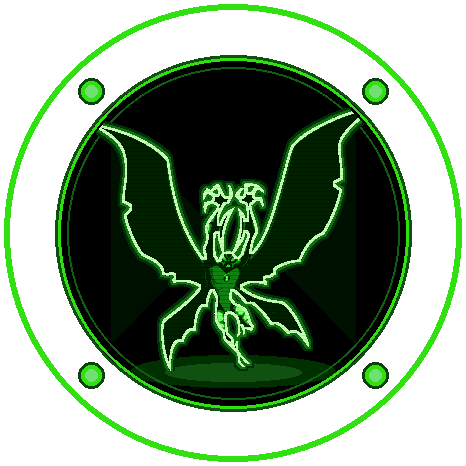
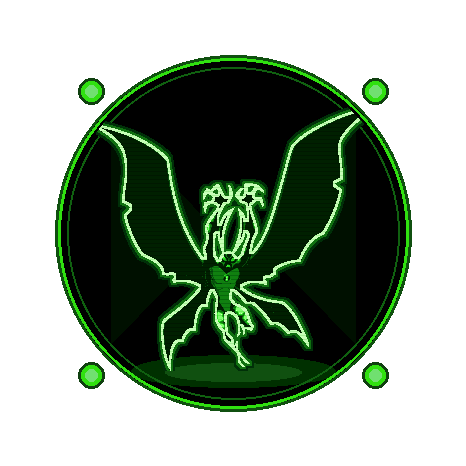
Unify <50% auto-red Omnitrix and battery ring into single 01 12 opcode and drop 7th tap

diff --git a/studio/index.html b/studio/index.html
@@ -2923,34 +2923,32 @@
       } else if (t === "alien_force_holograms") {
         document.getElementById("presetName").value = "Alien Force Holograms";
         loadConfigIntoUI({
-          layer_order: ["background", "gauge:g_low_red", "tap_switch", "gauge:g_batt_ring", "hands"],
+          layer_order: ["background", "gauge:g_low_red", "tap_switch", "hands"],
           background: {
             mode: "image",
-            image_path: "builtin://alien_force_holograms/bg_omnitrix_green.png",
+            image_path: "builtin://alien_force_holograms/bg_bezel.png",
             color: "#000000", color2: "#000000", brightness: 100, vignette: 0
           },
           tap_switch: {
             enabled: true, mode: "custom_images", size: 466, circular: true, opacity: 100, brightness: 100,
             x: 233, y: 233, preview_index: 0,
             frames: [
-              { label: "Omnitrix (<50% Auto-Red)", image_path: "builtin://alien_force_holograms/ts_00_clear.png",       thumb_url: "/builtin-assets/alien_force_holograms/bg_omnitrix_green.png" },
-              { label: "Swampfire",                image_path: "builtin://alien_force_holograms/ts_01_swampfire.png",   thumb_url: "/builtin-assets/alien_force_holograms/ts_01_swampfire.png" },
-              { label: "Humungousaur",             image_path: "builtin://alien_force_holograms/ts_02_humungousaur.png",thumb_url: "/builtin-assets/alien_force_holograms/ts_02_humungousaur.png" },
-              { label: "Big Chill",                image_path: "builtin://alien_force_holograms/ts_03_bigchill.png",    thumb_url: "/builtin-assets/alien_force_holograms/ts_03_bigchill.png" },
-              { label: "Jetray",                   image_path: "builtin://alien_force_holograms/ts_04_jetray.png",      thumb_url: "/builtin-assets/alien_force_holograms/ts_04_jetray.png" },
-              { label: "Echo Echo",                image_path: "builtin://alien_force_holograms/ts_05_echoecho.png",    thumb_url: "/builtin-assets/alien_force_holograms/ts_05_echoecho.png" },
-              { label: "Timeout Red",              image_path: "builtin://alien_force_holograms/ts_06_timeout_red.png", thumb_url: "/builtin-assets/alien_force_holograms/ts_06_timeout_red.png" }
+              { label: "Omnitrix (<50% Auto-Red)", image_path: "builtin://alien_force_holograms/ts_00_clear.png",        thumb_url: "/builtin-assets/alien_force_holograms/omnitrix_green_core.png" },
+              { label: "Swampfire",                image_path: "builtin://alien_force_holograms/ts_01_swampfire.png",    thumb_url: "/builtin-assets/alien_force_holograms/ts_01_swampfire.png" },
+              { label: "Humungousaur",             image_path: "builtin://alien_force_holograms/ts_02_humungousaur.png", thumb_url: "/builtin-assets/alien_force_holograms/ts_02_humungousaur.png" },
+              { label: "Big Chill",                image_path: "builtin://alien_force_holograms/ts_03_bigchill.png",     thumb_url: "/builtin-assets/alien_force_holograms/ts_03_bigchill.png" },
+              { label: "Jetray",                   image_path: "builtin://alien_force_holograms/ts_04_jetray.png",       thumb_url: "/builtin-assets/alien_force_holograms/ts_04_jetray.png" },
+              { label: "Echo Echo",                image_path: "builtin://alien_force_holograms/ts_05_echoecho.png",     thumb_url: "/builtin-assets/alien_force_holograms/ts_05_echoecho.png" }
             ]
           },
           gauges: [
             {
               id: "g_low_red", enabled: true, kind: "progress", metric: "battery", style: "omnitrix_low_red",
-              omni_style: "alien_force", color: "#ff1818", threshold_pct: 50, omni_glow: 1.0, omni_ticks: true,
-              brightness: 100, image_path: "builtin://alien_force_holograms/ts_06_timeout_red.png"
-            },
-            {
-              id: "g_batt_ring", enabled: true, kind: "progress", metric: "battery", style: "ring_mask",
-              color: "#161a1e", thickness: 8, radius_inset: 3
+              omni_style: "alien_force", color: "#ff1818", green_color: "#39ff14", track_color: "#161a1e",
+              threshold_pct: 50, include_ring: true, thickness: 6, radius_inset: 4,
+              omni_glow: 1.0, omni_ticks: true, brightness: 100,
+              image_path: "builtin://alien_force_holograms/omnitrix_red_core.png",
+              green_image_path: "builtin://alien_force_holograms/omnitrix_green_core.png"
             }
           ],
           analog_hands: { enabled: true, style: "omnitrix_glass", color: "#d8e2ec", accent_color: "#ffffff", show_seconds: true, center_cap: false },

diff --git a/scripts/watchface_compiler.py b/scripts/watchface_compiler.py
@@ -1721,21 +1721,32 @@ def build_battery_widget(batt_cfg):
     frames = []
 
     if style == "omnitrix_low_red":
-        # Auto-shift full faceplate to Red Timeout Omnitrix when battery < threshold_pct (default 50%).
-        # Uses supplied `image_path` (e.g. transparent-bezel Red Timeout layer) when provided,
-        # otherwise draws a clean RLE-compact Alien Force Red Timeout Omnitrix faceplate.
+        # Auto-shift faceplate to Red Timeout Omnitrix when battery < threshold_pct (default 50%).
+        # Supports optional `image_path` (low-batt red layer), `green_image_path` (normal >=threshold layer),
+        # and `include_ring=True` (bakes the live 360° green/red outer battery ring into the SAME
+        # single `01 12 sub=0x06` opcode — required because Watch 4S only allows one `01 12` per sub ID!).
         threshold_pct = max(10, min(90, int(batt_cfg.get("threshold_pct", 50))))
         brightness = float(batt_cfg.get("brightness", 90))
-        img_path = batt_cfg.get("image_path")
-        red_img = None
-        if img_path and os.path.isfile(img_path):
-            try:
-                with Image.open(img_path) as im:
-                    red_img = _prepare_circular_pil(im.convert("RGBA"), W, circular=True)
-                    if brightness < 99.5:
-                        red_img = apply_amoled_dimmer(red_img, brightness, 0)
-            except Exception:
-                red_img = None
+        include_ring = bool(batt_cfg.get("include_ring", False))
+        ring_thick = max(3, min(14, int(batt_cfg.get("thickness", 6))))
+        ring_inset = max(2, min(40, int(batt_cfg.get("radius_inset", 4))))
+        red_rgb = _safe_hex_rgb(batt_cfg.get("color", "#ff1818"), (255, 24, 24))
+        green_rgb = _safe_hex_rgb(batt_cfg.get("green_color", "#39ff14"), (57, 255, 20))
+        track_rgb = _safe_hex_rgb(batt_cfg.get("track_color", "#161a1e"), (22, 26, 30))
+
+        def _load_layer(path_val):
+            if path_val and os.path.isfile(path_val):
+                try:
+                    with Image.open(path_val) as im:
+                        out_im = _prepare_circular_pil(im.convert("RGBA"), W, circular=True)
+                        if brightness < 99.5:
+                            out_im = apply_amoled_dimmer(out_im, brightness, 0)
+                        return out_im
+                except Exception:
+                    return None
+            return None
+
+        red_img = _load_layer(batt_cfg.get("image_path"))
         if red_img is None:
             omni_style = batt_cfg.get("omni_style", "alien_force")
             if omni_style not in ("alien_force", "os", "omniverse", "5yl"):
@@ -1746,9 +1757,23 @@ def build_battery_widget(batt_cfg):
             red_img = draw_omnitrix_bg(style=omni_style, palette=palette_from_hex(red_hex), show_ticks=ticks, glow_strength=glow)
             red_img = apply_amoled_dimmer(red_img, brightness, 0)
             red_img = _posterize_for_rle(_prepare_circular_pil(red_img, W, circular=True), bits=4)
-        blank = Image.new("RGBA", (W, H), (0, 0, 0, 0))
+
+        high_img = _load_layer(batt_cfg.get("green_image_path"))
+        if high_img is None:
+            high_img = Image.new("RGBA", (W, H), (0, 0, 0, 0))
+
+        bbox = (ring_inset, ring_inset, W - 1 - ring_inset, H - 1 - ring_inset)
         for step in range(11):
-            frames.append(red_img if (step * 10 < threshold_pct) else blank)
+            is_low = (step * 10 < threshold_pct)
+            fr = (red_img if is_low else high_img).copy()
+            if include_ring:
+                d = ImageDraw.Draw(fr)
+                d.arc(bbox, start=-90, end=270, fill=(*track_rgb, 255), width=ring_thick)
+                if step > 0:
+                    sweep = int(360 * step / 10)
+                    col = red_rgb if is_low else green_rgb
+                    d.arc(bbox, start=-90, end=-90 + sweep, fill=(*col, 255), width=ring_thick)
+            frames.append(fr)
         return 0, 0, frames
 
     if style == "ring_mask":

diff --git a/studio/server.py b/studio/server.py
@@ -554,23 +554,24 @@ def resolve_config_assets(cfg, temp_dir=None, filename=None, persist_dir=None):
                 else:
                     sp.pop("image_path", None)
 
-    # 6. Optional Gauge Overlay Images (e.g. omnitrix_low_red transparent-bezel Red Timeout)
+    # 6. Optional Gauge Overlay Images (e.g. omnitrix_low_red Red/Green Omnitrix layers)
     gauges = cfg_copy.get("gauges")
     if isinstance(gauges, list):
         for idx, g in enumerate(gauges[:4]):
             if not isinstance(g, dict):
                 continue
-            b64 = g.pop("image_data", None)
             gid = slugify(str(g.get("id") or f"g_{idx + 1}"))
-            if b64:
-                stem = f"gauge_{gid}_{uuid.uuid4().hex[:6]}" if not persist_dir else f"gauge_{gid}"
-                g["image_path"] = _write_data_url_asset(b64, assets_dir, stem)
-            else:
-                existing = _safe_existing_asset(g.get("image_path"), persist_dir)
-                if existing:
-                    g["image_path"] = _persist_existing_asset(existing, persist_dir, assets_dir)
+            for dk, pk in (("image_data", "image_path"), ("green_image_data", "green_image_path")):
+                b64 = g.pop(dk, None)
+                if b64:
+                    stem = f"gauge_{gid}_{pk}_{uuid.uuid4().hex[:6]}" if not persist_dir else f"gauge_{gid}_{pk}"
+                    g[pk] = _write_data_url_asset(b64, assets_dir, stem)
                 else:
-                    g.pop("image_path", None)
+                    existing = _safe_existing_asset(g.get(pk), persist_dir)
+                    if existing:
+                        g[pk] = _persist_existing_asset(existing, persist_dir, assets_dir)
+                    else:
+                        g.pop(pk, None)
 
     return cfg_copy
 
@@ -662,8 +663,10 @@ def rebase_config_paths(cfg, new_dir):
     for list_key in ("overlays", "anim_sprites", "gauges"):
         if isinstance(out.get(list_key), list):
             for it in out[list_key]:
-                if isinstance(it, dict) and it.get("image_path"):
-                    it["image_path"] = map_path(it["image_path"], check_root=False)
+                if isinstance(it, dict):
+                    for pk in ("image_path", "green_image_path"):
+                        if it.get(pk):
+                            it[pk] = map_path(it[pk], check_root=False)
     return out
 
 

diff --git a/README.md b/README.md
@@ -52,7 +52,7 @@ Overcomes the default Haylou Fun companion app limitations—fixed clock placeme
   - Unlocks hidden Watch 4S health cards & firmware-verified BLE controls (PAI, VO2 Max, HRV, Active/Standing Hours, High/Low Heart Rate Alert `0x87 02`, and Daytime Sleep Naps `0xBC 01`), unlocks Watch 4S's native **30-minute hardware step histograms (`0x59`)** plus **Hourly Steps, Calories & Exercise Day Charts** across Daily Activities, Steps/Calories `D` tabs, and Home mini cards, adds a 3rd **Resting Heart Rate** card to Heart Rate Details, runs on-device **Vitality Score (PAI)**, **VO2 Max**, **Workout Analytics** (Aerobic & Anaerobic Training Effect `0.2–5.0`, Exercise Load / EPOC, Recovery Time, and Per-Workout VO2 Max in `SportDetailActivity`), **30-Minute Stress-Derived HRV**, and **Hourly Active / Standing Hours (12h)** engines, unlocks a **Night Raise-to-Wake Schedule** (**Device settings → DND mode**, wired exclusively to BLE `0x72` `sendQuickViewTime` so wrist-wake turns off at night, default `23:00–07:00`, while calls & notifications stay active), adds **Cycling Fixes** (strips handlebar-vibration phantom cycling steps using exact Watch 4S `0x59` 30-min hardware overlap—persisted across midnight in local-only `SportTable.sportcounter`—with a `30 steps/min` historical fallback and lossless self-healing while preserving bike distance/calories, computes true moving time & moving average speed on synced GPS rides while keeping `SportTable.points` intact for Strava's smooth velocity curve, and adds live GPS auto-pause/auto-resume for phone-started rides), and adds **VoIP Incoming Call Alerts + Wrist Reject** (WhatsApp, WhatsApp Business, Messenger, Instagram, Telegram, Viber, and Discord ring Watch 4S with the real caller name via BLE `0x41` and execute the VoIP app's Decline action when rejected from the wrist).
 - **Ben 10 Omnitrix Generator & Built-In Alien Force Holograms Template:**
   - 4 built-in series faceplates (**Alien Force / UAF**, **Original Series**, **Omniverse**, **5 Years Later**) with 6 preset colorways + full custom hex color picker and glow control.
-  - Built-in **Alien Force · 5 Holograms** template (`studio/assets/alien_force_holograms/`): defaults to the active green **Alien Force Omnitrix** that automatically shifts to **Timeout Red** (faceplate + outer battery ring) below `50%` battery (`01 12`), and tap-switches (`01 1a`, layered above) through 5 neon-green Alien Force holograms (**Swampfire**, **Humungousaur**, **Big Chill**, **Jetray**, **Echo Echo**) plus **Timeout Red** on Tap #7, complete with an **Adaptive Color-Matching 360° Battery Ring** (`ring_mask`, green on green scenes and red on red scenes) and **Omnitrix Silver Glass** orbital hands.
+  - Built-in **Alien Force · 5 Holograms** template (`studio/assets/alien_force_holograms/`): defaults to the active green **Alien Force Omnitrix** + live 360° outer battery ring in a single hardware-verified `01 12 sub=0x06` opcode that automatically turns **Timeout Red** (faceplate + bezel nodes + outer battery ring) below `50%` battery, and tap-switches (`01 1a`, layered above) through 5 neon-green Alien Force holograms (**Swampfire**, **Humungousaur**, **Big Chill**, **Jetray**, **Echo Echo**) with **Omnitrix Silver Glass** orbital hands.
 - **Safe & 100% Reversible:**
   - Installs strictly into the watch's official cloud dial slot (`CRPWatchFaceInfo.WacthFaceType.JIELI`). Never flashes firmware or bootloaders. Switching watchfaces on the watch restores stock dials immediately.
 
